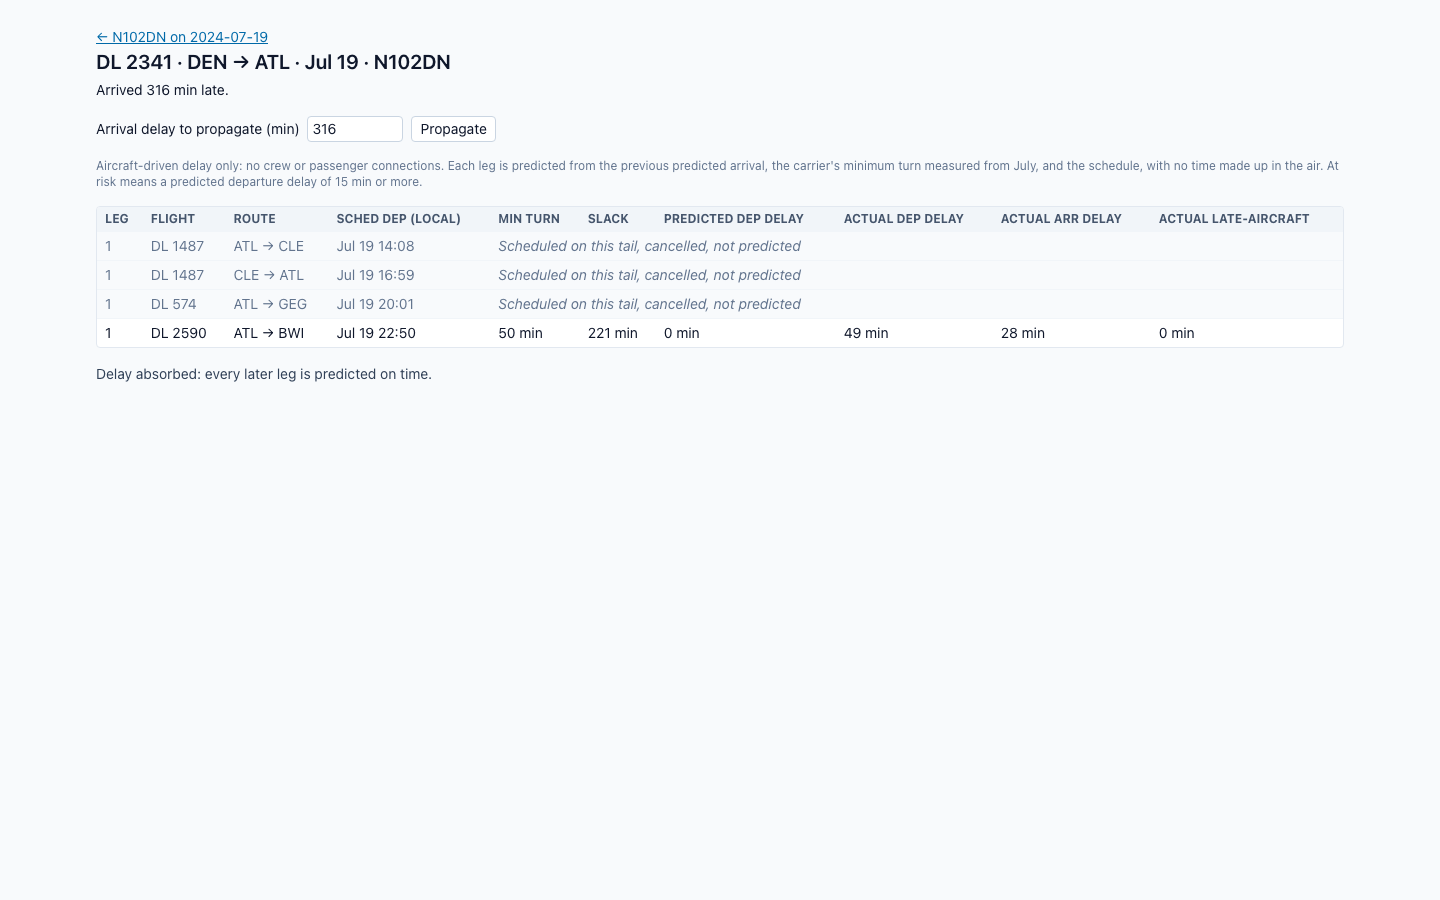
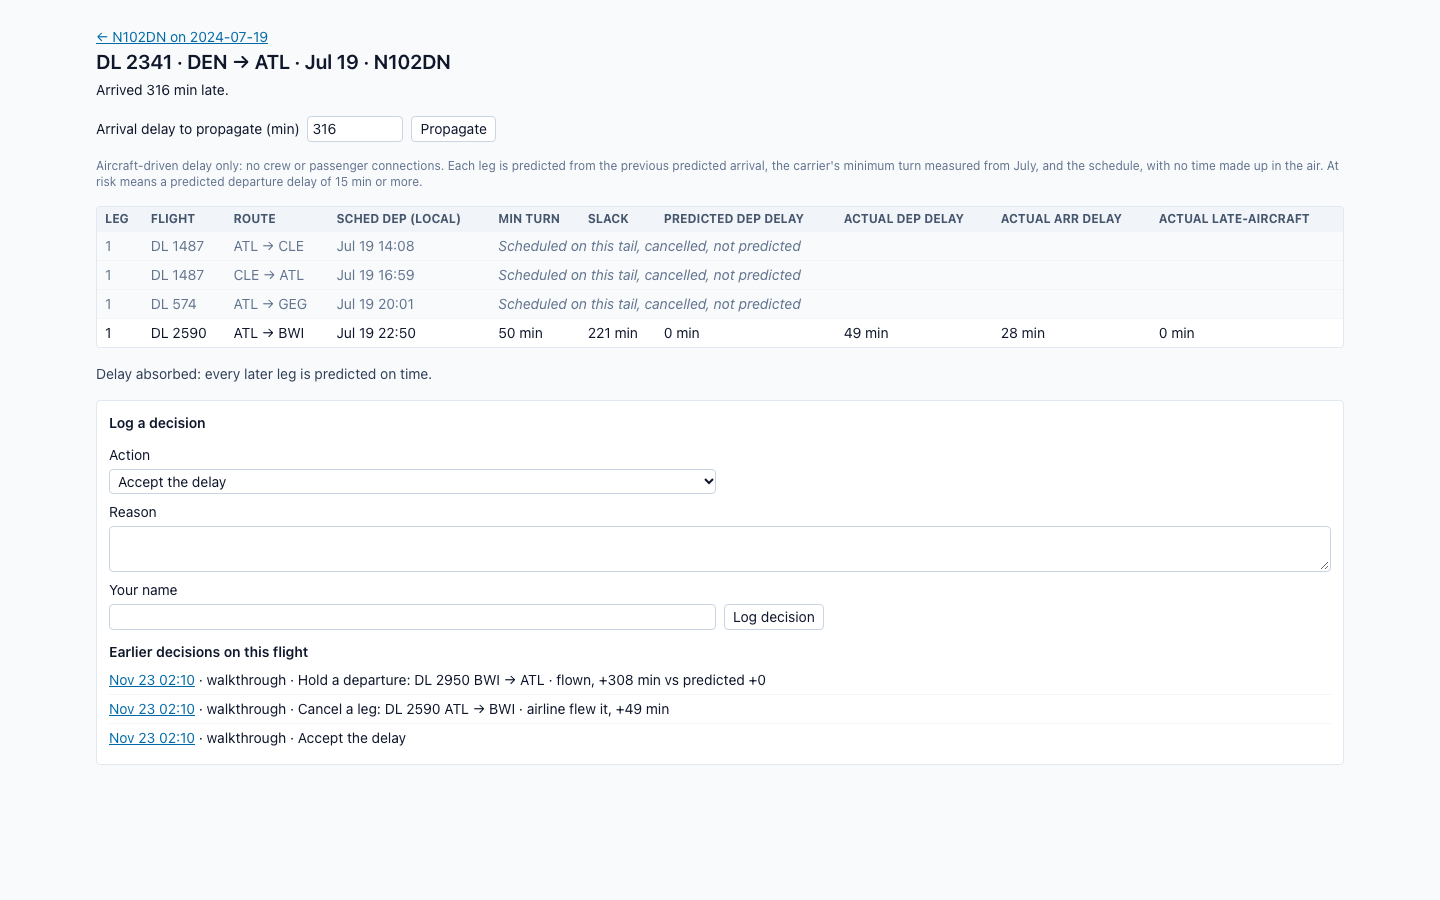
docs: phase 5 walkthrough, screenshots and status

diff --git a/web/resources/js/pages/Decisions.vue b/web/resources/js/pages/Decisions.vue
@@ -32,7 +32,7 @@ const cell = 'px-2 py-1';
                         <td :class="cell">{{ d.author }}</td>
                         <td :class="cell" class="whitespace-nowrap">
                             <Link :href="`/decisions/${d.decision_id}`" class="text-sky-700 underline">{{ d.carrier }} {{ d.flight_number }} {{ d.origin }} → {{ d.dest }}</Link>
-                            <span class="text-slate-500"> {{ utcTitle(d.sched_dep_utc) }}</span>
+                            <span class="ml-1 text-slate-500">{{ utcTitle(d.sched_dep_utc) }}</span>
                             <span v-if="d.what_if" class="text-slate-500"> · what-if {{ d.arr_delay_min }} min</span>
                         </td>
                         <td :class="cell">{{ ACTIONS[d.action] }}</td>

diff --git a/CLAUDE.md b/CLAUDE.md
@@ -4,9 +4,9 @@ Airline operations control tool for one US hub, starting with ATL. It is a portf
 
 ## Status
 
-- **Current phase:** 5 (operator workflow), on branch `phase-5`. Steps 1 and 2 are built: migration 022 (the decision log, `record_decision` and the review views) and the FlightImpact decision panel posting to `POST /flights/{flight}/decisions`.
-- **Next action:** once the user approves `docs/plans/2026-11-23-phase-5-review-pages.md` (step 3: review pages, walkthrough, close-out), build it inline with `superpowers:executing-plans` and TDD.
-- **Built so far:** phases 1 to 4 in full (see their plans in `docs/`): the pipelines, the `app_read` views read by the `flightops_app` role, and the read-only ops console in `web/` (HubDay, TailDay, FlightImpact and Live pages). The local `flightops` database holds the July 2024 ontology, and measured results are in `docs/data-sources.md` and the notes in `docs/phase-2-plan.md`. OpenSky ATL arrivals and departures are collected by hand with `collect`, which fetches the last 7 settled days it doesn't hold. Use `--from` and `--to` for older gaps.
+- **Current phase:** 5 complete on branch `phase-5`: decisions are logged from FlightImpact through `app_read.record_decision` (migration 022) and reviewed on `/decisions`. Measured notes are in `docs/phase-5-plan.md`.
+- **Next action:** ask the user whether to merge `phase-5` into `main`, then whether to brainstorm the cancellation-risk phase or phase 6 (second hub).
+- **Built so far:** phases 1 to 5 in full (see their plans in `docs/`): the pipelines, the `app_read` views read by the `flightops_app` role, and the read-only ops console in `web/` (HubDay, TailDay, FlightImpact, Live, Decisions and Decision pages). The decision log in `app` holds three kept walkthrough decisions on N102DN by author `walkthrough`. The local `flightops` database holds the July 2024 ontology, and measured results are in `docs/data-sources.md` and the notes in `docs/phase-2-plan.md`. OpenSky ATL arrivals and departures are collected by hand with `collect`, which fetches the last 7 settled days it doesn't hold. Use `--from` and `--to` for older gaps.
 - **Commands:** from `pipelines/`, `uv run --env-file ../.env pytest`, and `uv run --env-file ../.env python -m flightops {migrate,ddl,fetch,load,build,report,all,collect,live}`. `live` polls every 60 s (`--every`) until Ctrl-C. From `web/`, `./vendor/bin/pest`, `npm test`, `npm run build`, and `composer run dev` or `php artisan serve` to run the app.
 - **Repo:** phase 1, OpenSky collection and the report addition are merged to `main` locally, not pushed, and so are all of phases 2, 3 and 4. Phase 5 is on the local branch `phase-5`.
 
@@ -28,7 +28,7 @@ When the user says "start phase N" or "continue":
 
 - **Pipelines:** Python, managed with `uv`. Pipelines are the only writers to `raw`, `staging`, `ontology` and `dq`.
 - **Database:** Postgres. PostGIS comes later, when a feature needs geospatial queries.
-- **App:** Laravel + Inertia + Vue + Tailwind. It reads from `ontology` and `dq` and never writes to them. App-owned tables (users, sessions) live in `app`.
+- **App:** Laravel + Inertia + Vue + Tailwind. It reads from `ontology` and `dq` through `app_read`, and never writes to them. Its only write is `app_read.record_decision`, into `app`. App-owned tables (users, sessions) live in `app`.
 - **Runtime:** local for now: Postgres.app, a `uv` virtual environment in `pipelines/.venv`, and the Laravel dev server (`php artisan serve`). Don't add Docker until the final roadmap phase.
 
 ## Data sources
@@ -103,7 +103,7 @@ A rotation is one tail's flights ordered by actual time. Consecutive legs should
 
 - `docs/data-sources.md`: field notes on each source.
 - `docs/roadmap.md`: all phases, kept loose until each one starts.
-- `docs/phase-1-plan.md` to `docs/phase-4-plan.md`: phase plans, with measured notes at the end of phase 2's.
+- `docs/phase-1-plan.md` to `docs/phase-5-plan.md`: phase plans, with measured notes at the end of phase 2's.
 - `docs/case-study.md`: hand-written outage case study for the portfolio. Every figure links to a report table or a `DECISIONS.md` entry, so recheck them if the data is rebuilt.
 - `docs/screenshots/`: portfolio screenshots, regenerated by `web/scripts/screenshots.sh` against a running app.
 - `docs/phase-1-report.md`: generated data-quality report for July 2024. Change it through `pipelines/flightops/report.py`.

diff --git a/README.md b/README.md
@@ -30,13 +30,19 @@ From the generated [Phase 3 report](docs/phase-3-report.md):
 
 ![N102DN on July 19, 2024](docs/screenshots/tail-N102DN-2024-07-19.png)
 
-The app reads through a database role that can only select from a schema of views, so the rules for days, statuses and labels live in tested SQL, and the app cannot write.
+The app reads through a database role that can only select from a schema of views, so the rules for days, statuses and labels live in tested SQL. Its one write is logging a decision, through a single database function.
 
 ## Decision support
 
 ![Downstream impact of N102DN's late arrival](docs/screenshots/flight-N102DN-2024-07-19.png)
 
 Open any flown leg, or a late arrival on the hub page, to follow its aircraft's next flights. Each is predicted from the previous arrival, the carrier's minimum turn measured from July, and the schedule. Flights at risk of a 15-minute delay are flagged, the actual delays sit beside the predictions, and a what-if box propagates a different arrival delay. Cancelled flights in the gaps are shown in grey and never predicted.
+
+## Decision log
+
+![A logged what-if decision on N102DN](docs/screenshots/decision-N102DN-what-if.png)
+
+From any flight's impact page, a controller can log a decision (accept the delay, hold a departure, swap aircraft, cancel a leg) with a reason. The predicted chain is frozen with it. The log puts each decision next to what BTS shows happened: whether the airline cancelled the target leg, and how late it actually left against the frozen prediction. The log is append-only and survives a rebuild of the data, re-matching each flight on carrier, flight number, origin and scheduled departure. Decisions are made with the July outcome already visible, so this is an audit trail, not a test of foresight.
 
 ## How it works
 
@@ -54,7 +60,7 @@ OpenSky ADS-B ────┘                     rotations, weather
 
 Scale: 634,613 flights for the month (the national file, so rotations don't break when an aircraft leaves ATL), 60,144 touching ATL, 7,280 airframes, 10,496 METARs.
 
-Trade-offs are logged in [DECISIONS.md](DECISIONS.md), and the plan for later phases is in [docs/roadmap.md](docs/roadmap.md): live data, operator decisions, a second hub and containers.
+Trade-offs are logged in [DECISIONS.md](DECISIONS.md), and the plan for later phases is in [docs/roadmap.md](docs/roadmap.md): a second hub and containers.
 
 ## Stack
 

diff --git a/docs/roadmap.md b/docs/roadmap.md
@@ -8,11 +8,11 @@ Only the next phase gets detailed planning. Review and update this file before e
 | 2. Ops console | What happened at ATL on a given day, and to a given aircraft? | Pick a day, then drill from the hub to a tail's timeline with its weather | Read-only Laravel app over `ontology` and `dq` |
 | 3. Decision support | If this aircraft runs late, what breaks next? | Select a late inbound flight and see the downstream flights at risk | Delay propagation along rotations, backtested on the outage |
 | 4. Live data | What is happening now? | Current ATL view with live weather and aircraft | See `phase-4-plan.md`. Built without PostGIS |
-| 5. Operator workflow | What did the controller decide, and did it help? | Log a decision against a flight and review it later | Write-backs stored in `app` |
+| 5. Operator workflow | What did the controller decide, and did it help? | Log a decision against a flight and review it later | See `phase-5-plan.md`. Writes go through one SQL function |
 | 6. Second hub | Does this work beyond ATL? | Same app on another hub, with a list of what broke | Mostly finding hidden ATL assumptions |
 | 7. Containerization | Can someone else run it from a clean checkout? | `docker compose up` reproduces the same counts and app | Compose for Postgres, pipelines and the app |
 
-Phases 1-3 plus a written outage case study are the core portfolio piece. That piece is done: see [case-study.md](case-study.md). Phases 4-6 are optional, and phase 4 is built. Phase 7 comes last, whichever of those get built.
+Phases 1-3 plus a written outage case study are the core portfolio piece. That piece is done: see [case-study.md](case-study.md). Phases 4-6 are optional, and phases 4 and 5 are built. Phase 7 comes last, whichever of those get built.
 
 ## Ordering
 

diff --git a/docs/phase-5-plan.md b/docs/phase-5-plan.md
@@ -73,3 +73,7 @@ flight-ops/
 
 | Finding | Evidence | Design consequence |
 |---|---|---|
+| Recording a decision is fast enough for a form post | `record_decision` on N102DN's DEN→ATL: 92 ms, including `propagate` and the 5-leg snapshot | No async write or queue |
+| The natural key is unique for July | 634,613 flights, 634,613 distinct (carrier, flight number, origin, scheduled departure) | Re-matching after a rebuild needs no tiebreak |
+| Inertia v3 sends the CSRF token by default | Its client reads `XSRF-TOKEN` and sends `X-XSRF-TOKEN`. A replayed POST without it got 419, with it 302 | No CSRF setup in the app |
+| The review shows what the model misses | Walkthrough on N102DN, July 19: accepting the 316-min delay predicted 0 legs at risk, while 1 left late and 3 were cancelled. A 600-min what-if hold on BWI→ATL 2950 predicted +0; it left 308 min late with no late-aircraft minutes | The cancellation-risk phase the case study recommends would have something to score against |
